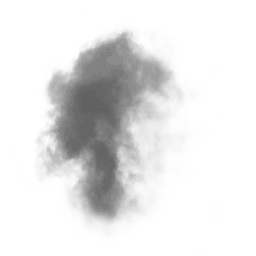
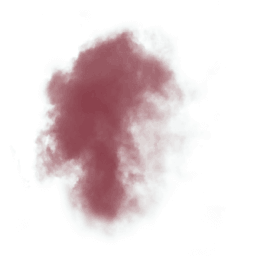
nebula

Changed region(s): [[0.125, 0.0938, 0.7188, 0.875]]

diff --git a/src/App.js b/src/App.js
@@ -6,6 +6,7 @@ import bg04 from "./img/bg01.jpg";
 import bg02 from "./img/bg02.png";
 import bg03 from "./img/bg03.png";
 import bgPlane from "./img/bg-plane.jpg";
+import smoke from "./img/smoke-1.png";
 
 const style = {
   height: "100vh",
@@ -39,12 +40,46 @@ class App extends Component {
       0.1, // near plane
       1000 // far plane
     );
+
     this.renderer = new THREE.WebGLRenderer();
     this.renderer.setSize(width, height);
+
+    // ambient color
+    this.scene.fog = new THREE.FogExp2(0x741523, 0.001);
+    this.renderer.setClearColor(this.scene.fog.color);
+
     this.el.appendChild(this.renderer.domElement); // mount using React ref
   };
 
   addCustomSceneObjects = () => {
+    //nebula
+    const nebulaText = new THREE.TextureLoader().load(smoke);
+    const nebulaGeo = new THREE.PlaneBufferGeometry(500, 500);
+    const nebulaMat = new THREE.MeshLambertMaterial({
+      map: nebulaText,
+      transparent: true
+    });
+    const group = new THREE.Group();
+
+    this.nebulaParticles = [];
+
+    //loop for create 50 nebula particles
+    for (let i = 0; i < 20; i++) {
+      let nebula = new THREE.Mesh(nebulaGeo, nebulaMat);
+
+      nebula.position.set(
+        Math.random() * 500 - 250,
+        Math.random() * 300 - 100,
+        Math.random() * 200 + 300
+      );
+      nebula.rotation.z = Math.random() * 2 * Math.PI;
+      nebula.material.opacity = 0.55;
+      nebula.material.side = THREE.DoubleSide;
+
+      this.nebulaParticles.push(nebula);
+      group.add(nebula);
+    }
+    console.log(group);
     //background plane
     // const texture0 = new THREE.TextureLoader().load(bg04);
     // const planeGeo = new THREE.PlaneGeometry(50, 25);
@@ -103,9 +138,8 @@ class App extends Component {
     this.spacesphere3.material.map.wrapT = THREE.RepeatWrapping;
     this.spacesphere3.material.map.repeat.set(10, 8);
 
-    var group = new THREE.Group();
     //group.add(this.plane);
-    group.add(this.spacesphere);
+    //group.add(this.spacesphere);
     group.add(this.spacesphere2);
     //group.add(this.spacesphere3);
 
@@ -126,17 +160,34 @@ class App extends Component {
     lights[1].position.set(60, -10, 20);
     lights[1].intensity = 1.3;
 
-    lights[2] = new THREE.AmbientLight(0xffffff);
+    lights[2] = new THREE.AmbientLight(0x555555);
     lights[2].position.set(60, -10, 20);
     lights[2].intensity = 1;
 
-    this.scene.add(lights[0]);
-    this.scene.add(lights[1]);
+    lights[3] = new THREE.DirectionalLight(0xb97a84);
+    lights[3].position.set(0, 0, 1);
+    this.scene.add(lights[3]);
+
+    lights[4] = new THREE.PointLight(0xb97a84, 50, 350, 1.7);
+    lights[4].position.set(0, 0, 0);
+    this.scene.add(lights[4]);
+
+    lights[5] = new THREE.PointLight(0xb97a84, 100, 250, 3);
+    lights[5].position.set(100, 300, 100);
+    this.scene.add(lights[5]);
+
+    lights[6] = new THREE.PointLight(0xb97a84, 50, 350, 3);
+    lights[6].position.set(300, 100, 200);
+    this.scene.add(lights[6]);
+
+    //this.scene.add(lights[0]);
+    //this.scene.add(lights[1]);
     this.scene.add(lights[2]);
   };
 
   startAnimationLoop = () => {
     requestAnimationFrame(this.startAnimationLoop);
+    this.nebulaParticles.forEach(el => (el.rotation.z -= 0.001));
     this.spacesphere.rotation.y += 0.0002;
     this.spacesphere2.rotation.y += 0.0003;
     this.spacesphere3.rotation.y += 0.00045;
